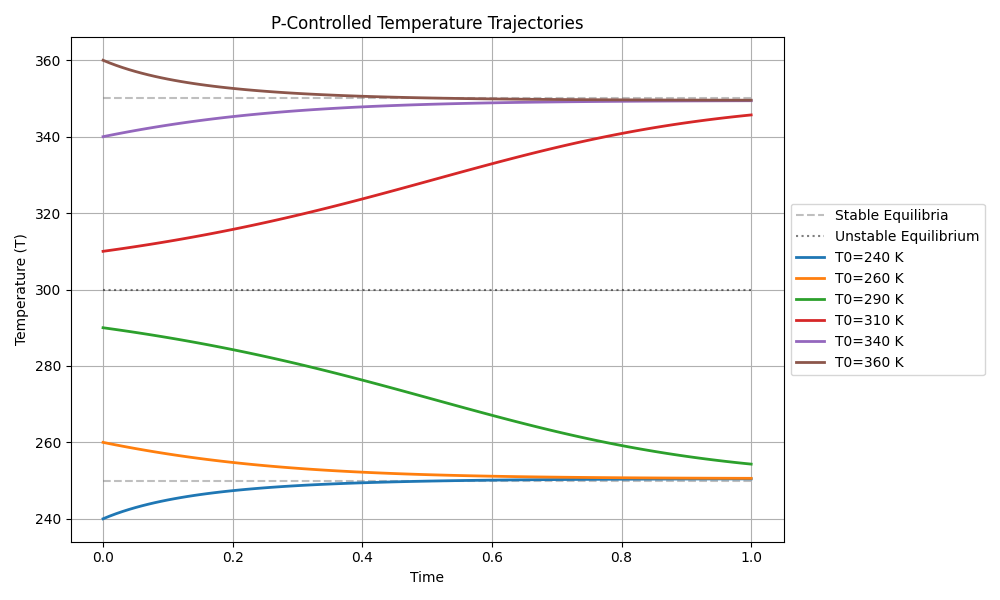
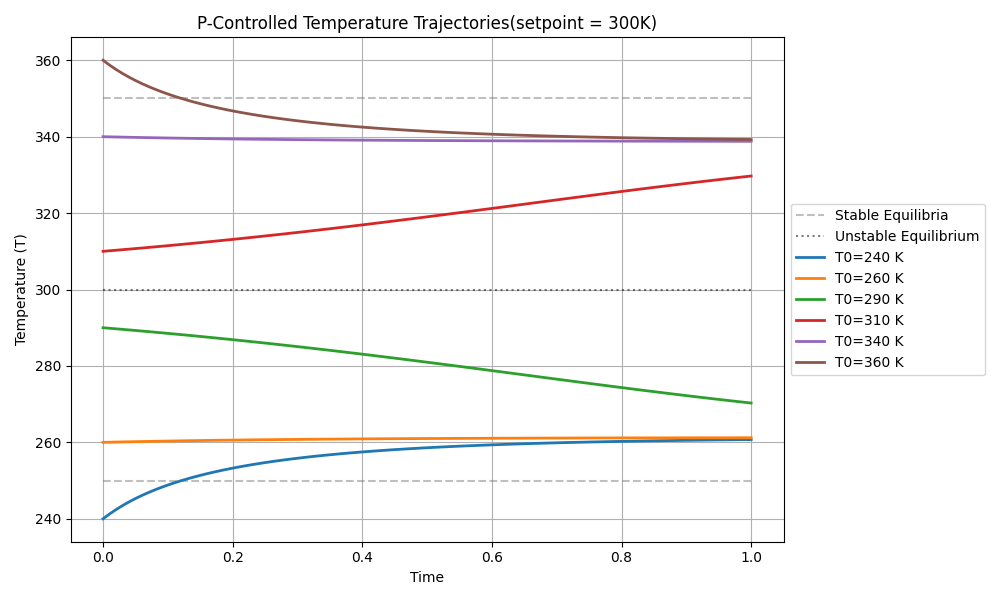
implemented PIController with error integration

diff --git a/main.py b/main.py
@@ -2,18 +2,21 @@ from experiments.basin_study import run_basin_study
 from visualization.plots import Plotting
 from models.first_order_system import FirstOrderSystem
 from controllers.p import PController
+from controllers.pi import PIController
 from experiments.setpoint_tracking import run_setpoint_tracking
-from parameters import Kp_values
+from parameters import Kp_values, Ki_values
 
 # Run basin study with and without control and plot results
 times, temperatures, labels = run_basin_study()
 Plotting.plot_trajectory(times, temperatures, labels, filename="basin_dynamics/uncontrolled_basin_dynamics.png", title="Uncontrolled Temperature Trajectories")
-times, temperatures, labels = run_basin_study(controller=PController(Kp=0.05, setpoint=300))
-Plotting.plot_trajectory(times, temperatures, labels, filename="basin_dynamics/p_controlled_basin_dynamics.png", title="P-Controlled Temperature Trajectories")
+times, temperatures, labels = run_basin_study(controller=PController(Kp=1.0, setpoint=300))
+Plotting.plot_trajectory(times, temperatures, labels, filename="basin_dynamics/p_controlled_basin_dynamics.png", title="P-Controlled Temperature Trajectories(setpoint = 300K)")
+times, temperatures, labels = run_basin_study(controller=PIController(Kp=1.0, Ki=1.0, setpoint=300))
+Plotting.plot_trajectory(times, temperatures, labels, filename="basin_dynamics/pi_controlled_basin_dynamics.png", title="PI-Controlled Temperature Trajectories(setpoint = 300K)")
 
-# Run setpoint tracking experiment and plot results
+# Run setpoint tracking experiment with P controller and plot results
 times, temperatures, labels = run_setpoint_tracking(controller_type=PController, Kp=1.0)
-Plotting.plot_trajectory(times, [temperatures], labels, filename="setpoint_tracking/setpoint_tracking_single_Kp.png", title="P-Controlled Setpoint Tracking", setpoint=320)
+Plotting.plot_trajectory(times, [temperatures], labels, filename="setpoint_tracking/setpoint_tracking_baseline.png", title="P-Controlled Setpoint Tracking", setpoint=320)
 
 trajectory_list = []
 label_list = []
@@ -22,6 +25,29 @@ for Kp in Kp_values:
     trajectory_list.append(temperatures)
     label_list.append(labels)
 Plotting.plot_trajectory(times, trajectory_list, label_list, filename="setpoint_tracking/setpoint_tracking_Kp_sweep.png", title="P-Controlled Setpoint Tracking", setpoint=320)
+
+# Run setpoint tracking experiment with PI controller and plot results
+times, temperatures, labels = run_setpoint_tracking(controller_type=PIController, Kp=1.0, Ki=2.0)
+Plotting.plot_trajectory(times, [temperatures], labels, filename="setpoint_tracking/setpoint_tracking_pi_best.png", title="PI-Controlled Setpoint Tracking", setpoint=320)
+
+trajectory_list = []
+label_list = []
+for Kp, Ki in zip(Kp_values, Ki_values):
+    times, temperatures, labels = run_setpoint_tracking(controller_type=PIController, Kp=Kp, Ki=Ki)
+    trajectory_list.append(temperatures)
+    label_list.append(labels)
+Plotting.plot_trajectory(times, trajectory_list, label_list, filename="setpoint_tracking/setpoint_tracking_Kp_Ki_sweep.png", title="PI-Controlled Setpoint Tracking", setpoint=320)
+
+# PControl vs PIControl comparison plot
+times, p_temperatures, p_labels = run_setpoint_tracking(controller_type=PController, Kp=1.0)
+trajectory_list = []
+label_list = []
+comparison_Ki_values = [1.0, 2.0, 20.0]
+for Ki in comparison_Ki_values:
+    times, temperatures, labels = run_setpoint_tracking(controller_type=PIController, Kp=1.0, Ki=Ki)
+    trajectory_list.append(temperatures)
+    label_list.append(labels)
+Plotting.plot_trajectory(times, [p_temperatures]+trajectory_list, [p_labels[0]]+label_list, filename="setpoint_tracking/p_vs_pi_comparison.png", title="P vs PI-Controlled Setpoint Tracking", setpoint=320)
 
 # Plot phase portrait of the system
 model = FirstOrderSystem()

diff --git a/controllers/pi.py b/controllers/pi.py
@@ -1,0 +1,13 @@
+class PIController:
+    def __init__(self, Kp, setpoint, Ki):
+        self.Kp = Kp
+        self.Ki = Ki
+        self.setpoint = setpoint
+        self.integral = 0.0
+    
+    def compute_control(self, current_temp, dt):
+        error = self.setpoint - current_temp
+        self.integral += error * dt
+        
+        control_signal = self.Kp * error + self.Ki * self.integral
+        return control_signal

diff --git a/experiments/setpoint_tracking.py b/experiments/setpoint_tracking.py
@@ -2,16 +2,18 @@ from models.first_order_system import FirstOrderSystem
 from simulation.simulator import EulerSimulator
 from parameters import time_step, num_steps
 
-def run_setpoint_tracking(controller_type, initial_temp=260, setpoint=320, Kp=0.05):
+def run_setpoint_tracking(controller_type, initial_temp=260, setpoint=320, Kp=1.0, Ki=None):
     
     system = FirstOrderSystem()
     simulator = EulerSimulator()
     labels = []
     
-    controller = controller_type(Kp=Kp, setpoint=setpoint)
+    controller = controller_type(Kp=Kp, setpoint=setpoint, Ki=Ki)
     
     trajectory, times = simulator.simulate(system, initial_temp=initial_temp, time_step=time_step, num_steps=num_steps, controller=controller)
-    #labels.append(f'P Control: {initial_temp} K → {setpoint} K (Kp={Kp})')
-    labels.append(f'Kp={Kp}')
+    if Ki is None:
+        labels.append(f'Kp={Kp}')
+    else:
+        labels.append(f'Kp={Kp}, Ki={Ki}')
 
     return times, trajectory, labels

diff --git a/controllers/p.py b/controllers/p.py
@@ -1,10 +1,10 @@
 class PController:
-    def __init__(self, Kp, setpoint):
+    def __init__(self, Kp, setpoint, Ki=None):
         self.Kp = Kp
         self.setpoint = setpoint
     
     
-    def compute_control(self, current_temp):
+    def compute_control(self, current_temp, dt=None):
         error = self.setpoint - current_temp
         control_signal = self.Kp * error
         return control_signal

diff --git a/simulation/simulator.py b/simulation/simulator.py
@@ -6,7 +6,7 @@ class EulerSimulator():
         current_temp = initial_temp
         for i in range(num_steps):
             if controller is not None:
-                derivative = model.derivative(current_temp) + controller.compute_control(current_temp)
+                derivative = model.derivative(current_temp) + controller.compute_control(current_temp, time_step)
             else:
                 derivative = model.derivative(current_temp)
             current_temp = current_temp + derivative * time_step

diff --git a/parameters.py b/parameters.py
@@ -6,6 +6,7 @@ default_k = 0.001
 #Experiment Parameters
 initial_temps = [240, 260, 290, 310, 340, 360]
 Kp_values = [0.1, 0.5, 1.0, 2.0, 5.0, 10.0]
+Ki_values = [0.5, 1.0, 2.0, 5.0, 10.0, 20.0]
 
 #Plot/Output Parameters
 PLOT_DIR = "example_plots"